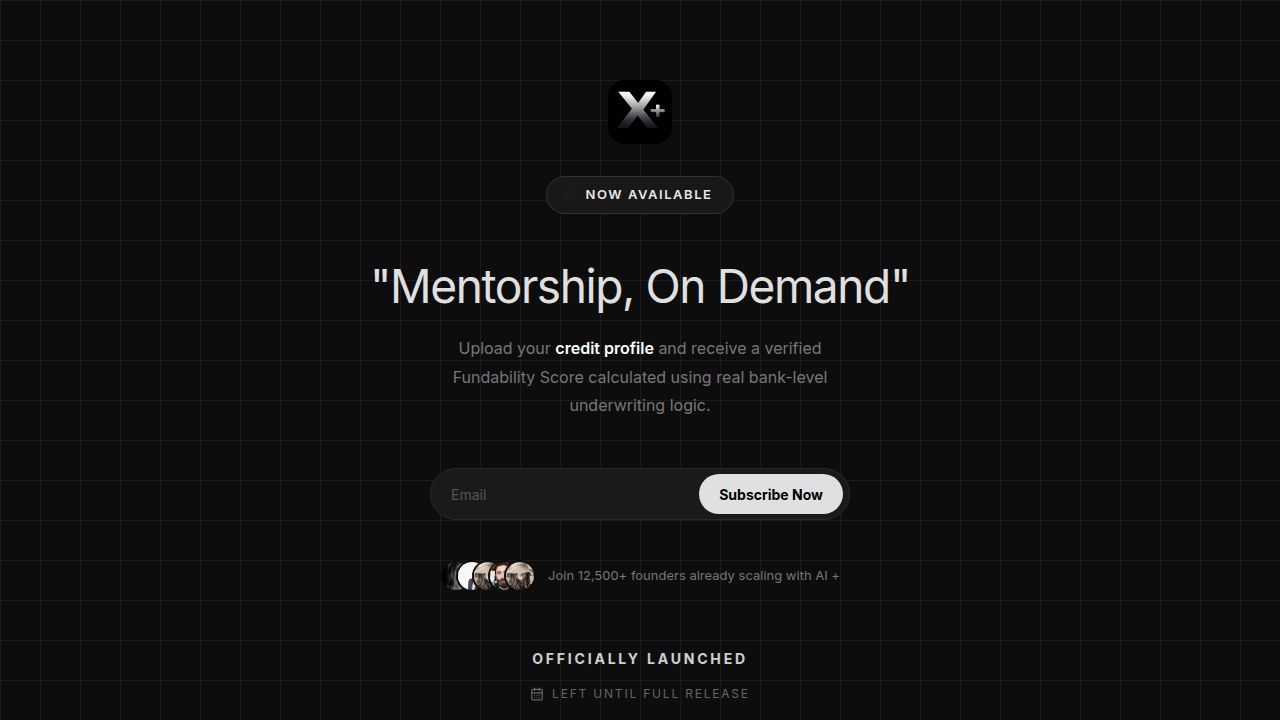
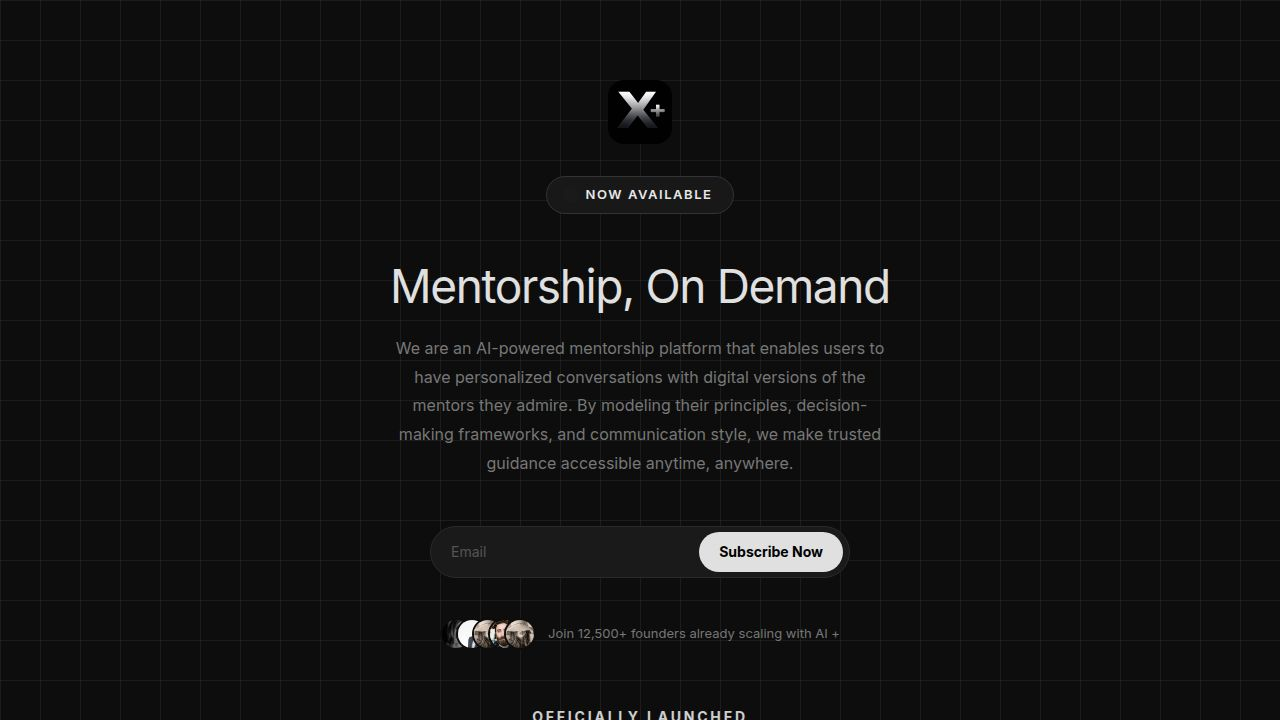
Update landing page text to reflect mentorship platform focus
Modify the hero description on the landing page to accurately describe the AI-powered mentorship platform.

Replit-Commit-Author: Agent
Replit-Commit-Session-Id: 3da33591-2ef3-48c4-a6be-405ae2b49719
Replit-Commit-Checkpoint-Type: full_checkpoint
Replit-Commit-Event-Id: 26a66eeb-fd94-4b7a-a534-44651c31a684
Replit-Commit-Screenshot-Url: https://storage.googleapis.com/screenshot-production-us-central1/6cb68abc-05c5-46e4-b0ad-0de8a6638ddd/3da33591-2ef3-48c4-a6be-405ae2b49719/A5OPEB3
Replit-Helium-Checkpoint-Created: true

diff --git a/client/src/pages/landing.tsx b/client/src/pages/landing.tsx
@@ -66,7 +66,7 @@ export default function LandingPage() {
           </h1>
 
           <p className="text-center text-[#777] text-[14px] sm:text-[16px] leading-[1.7] sm:leading-[1.8] max-w-[520px] mb-8 sm:mb-12 px-4 sm:px-2">
-            Engage with AI versions of influential mentors, modeled after their thinking and principles. Ask questions, explore decisions, and gain perspective as if speaking with them directly. Guidance becomes personal and available whenever you need it.
+            We are an AI-powered mentorship platform that enables users to have personalized conversations with digital versions of the mentors they admire. By modeling their principles, decision-making frameworks, and communication style, we make trusted guidance accessible anytime, anywhere.
           </p>
 
           <form onSubmit={handleLogin} className="w-full max-w-[420px] mb-8 sm:mb-10 px-2 sm:px-0">
